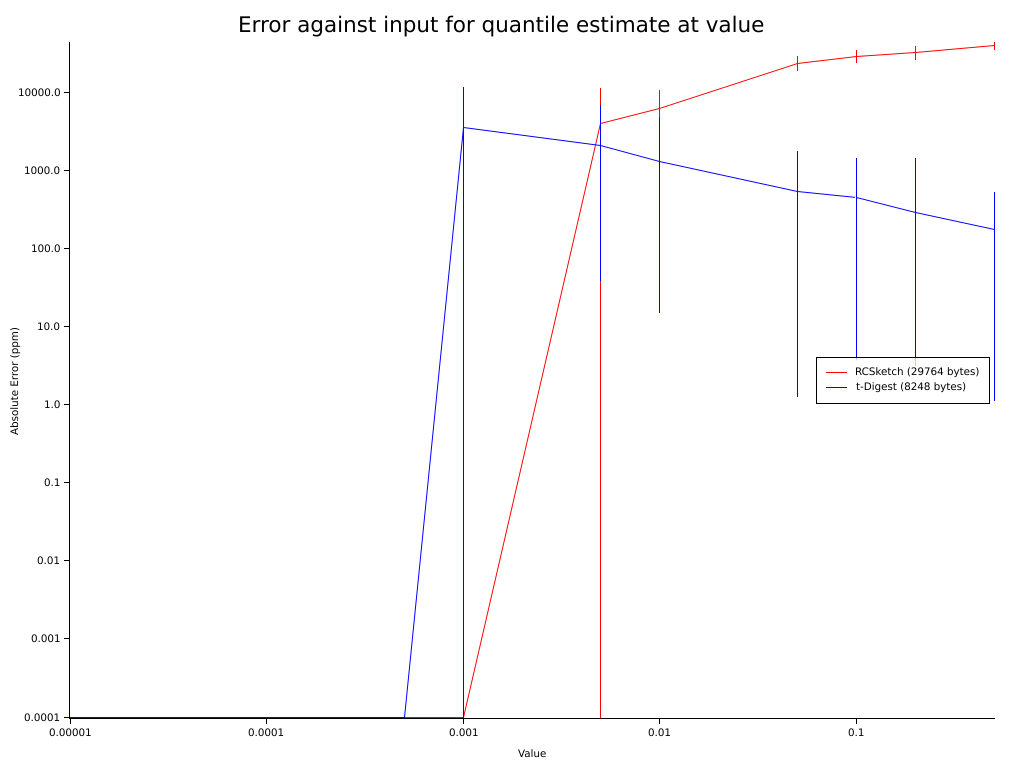
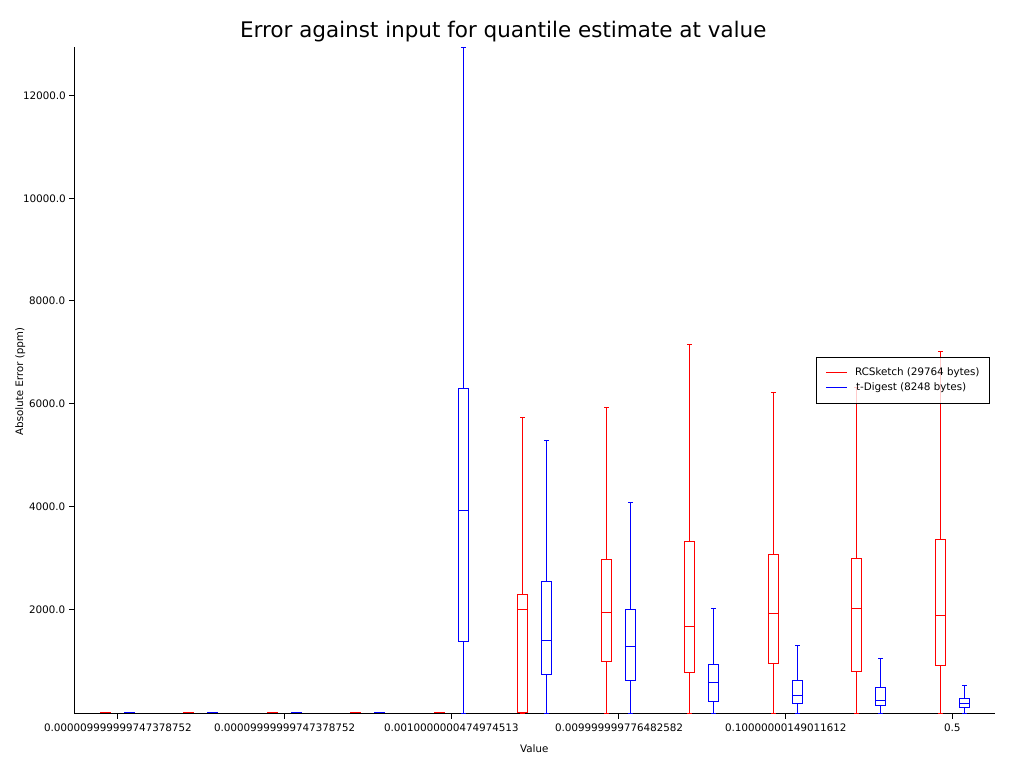
Improve RC accuracy by implementing the random switch between odd and even indexes

diff --git a/examples/accuracy.rs b/examples/accuracy.rs
@@ -7,6 +7,7 @@ use approximate_quantiles::util::{
     sample_digest_accuracy,
 };
 use num_traits::{Float, NumAssignOps};
+use plotters::data::fitting_range;
 use plotters::prelude::*;
 use std::error::Error;
 use std::path::Path;
@@ -20,6 +21,30 @@ where
     colour: &'a RGBColor,
 }
 
+impl<'a, T> Line<'a, T>
+where
+    T: Float,
+{
+    pub fn into_line_f64(self) -> Line<'a, f64> {
+        Line {
+            name: self.name,
+            datapoints: self
+                .datapoints
+                .into_iter()
+                .map(|dp| {
+                    (
+                        dp.0.to_f64().unwrap(),
+                        dp.1.into_iter()
+                            .map(|y_val| y_val.to_f64().unwrap())
+                            .collect(),
+                    )
+                })
+                .collect(),
+            colour: self.colour,
+        }
+    }
+}
+
 pub struct DataStat<T>
 where
     T: Float,
@@ -28,6 +53,91 @@ where
     y_mean: T,
     y_min: T,
     y_max: T,
+}
+
+pub fn plot_box_plot_graph<T>(
+    title: &str,
+    raw_series: Vec<Line<T>>,
+    output_path: &Path,
+    x_label: &str,
+    y_label: &str,
+) -> Result<(), Box<dyn Error>>
+where
+    T: Float,
+{
+    let root = BitMapBackend::new(output_path, (1024, 768)).into_drawing_area();
+
+    root.fill(&WHITE)?;
+
+    let series: Vec<Line<f64>> = raw_series
+        .into_iter()
+        .map(|series| series.into_line_f64())
+        .collect();
+
+    let y_values: Vec<f32> = series
+        .iter()
+        .map(|s| {
+            s.datapoints
+                .iter()
+                .map(|dp| dp.1.iter().map(|x| *x as f32).collect::<Vec<f32>>())
+                .flatten()
+                .collect::<Vec<f32>>()
+        })
+        .flatten()
+        .collect();
+    println!("{:?}", y_values);
+    let y_values_range = fitting_range(y_values.iter());
+    let x_values: Vec<f64> = series[0..1]
+        .iter()
+        .map(|s| s.datapoints.iter().map(|a| a.0).collect::<Vec<f64>>())
+        .flatten()
+        .collect();
+
+    // println!("{} {} {} {}", min_x, max_x, min_y, max_y);
+    // let mut colors = (0..).map(Palette99::pick);
+    println!("{:?}", &y_values_range);
+    let mut chart = ChartBuilder::on(&root)
+        .margin(15)
+        .margin_right(30)
+        .caption(&title, ("sans-serif", 25))
+        .set_label_area_size(LabelAreaPosition::Left, 60)
+        // .set_label_area_size(LabelAreaPosition::Right, 60)
+        .set_label_area_size(LabelAreaPosition::Bottom, 40)
+        .build_cartesian_2d(x_values[..].into_segmented(), y_values_range)?;
+
+    chart
+        .configure_mesh()
+        .disable_x_mesh()
+        .disable_y_mesh()
+        .x_desc(x_label)
+        .y_desc(y_label)
+        .draw()?;
+
+    let mut offsets = (-12..).step_by(24);
+    series.iter().for_each(|s| {
+        let current_offset = offsets.next().unwrap();
+        chart
+            .draw_series(s.datapoints.iter().map(|dp| {
+                Boxplot::new_vertical(SegmentValue::CenterOf(&dp.0), &Quartiles::new(&dp.1))
+                    .width(10)
+                    .whisker_width(0.5)
+                    .style(s.colour)
+                    .offset(current_offset)
+            }))
+            .expect("Failed to draw boxplot series")
+            .label(&s.name)
+            .legend(move |(x, y)| PathElement::new(vec![(x, y), (x + 20, y)], s.colour));
+    });
+
+    chart
+        .configure_series_labels()
+        .border_style(&BLACK)
+        .background_style(&WHITE.mix(0.8))
+        .draw()
+        .unwrap();
+    println!("Drew {}", title);
+
+    Ok(())
 }
 
 pub fn plot_line_graph<T>(
@@ -341,7 +451,7 @@ where
     };
 
     let rcsketch_param = T::from(20.0).unwrap();
-    let t_digest_param = T::from(3000.0).unwrap();
+    let t_digest_param = T::from(6000.0).unwrap();
 
     let input_size = 100_000;
     let rc_sketch_mem_size = {
@@ -356,7 +466,7 @@ where
     let mut series = Vec::new();
 
     let mut s = Vec::new();
-    for i in &[1e-6, 1e-5, 1e-4, 1e-3, 1e-2, 1e-1, 0.5] {
+    for i in &[1e-5, 1e-4, 1e-3, 1e-2, 1e-1] {
         let accuracy_measurements = sample_digest_accuracy(
             create_rcsketch(rcsketch_param),
             || gen_uniform_tan_vec(input_size),
@@ -375,7 +485,7 @@ where
     });
 
     let mut s = Vec::new();
-    for i in &[1e-6, 1e-5, 1e-4, 1e-3, 1e-2, 1e-1, 0.5] {
+    for i in &[1e-5, 1e-4, 1e-3, 1e-2, 1e-1] {
         let accuracy_measurements = sample_digest_accuracy(
             create_t_digest(t_digest_param),
             || gen_uniform_tan_vec(input_size),
@@ -393,7 +503,7 @@ where
         colour: &BLUE,
     });
 
-    plot_line_graph(
+    plot_box_plot_graph(
         "Error against input for value estimate at quantile",
         series,
         &Path::new("plots/acc_vs_input_est_value_from_quantile.png"),
@@ -487,7 +597,7 @@ where
         colour: &BLUE,
     });
 
-    plot_line_graph(
+    plot_box_plot_graph(
         "Error against input for quantile estimate at value",
         series,
         &Path::new("plots/acc_vs_input_est_quantile_from_value.png"),

diff --git a/src/relative_compactor.rs b/src/relative_compactor.rs
@@ -1,5 +1,6 @@
 use crate::traits::{Digest, OwnedSize};
 use num_traits::{cast::ToPrimitive, Float};
+use rand_distr::{Distribution, Uniform};
 use std::cmp::Ordering;
 
 #[derive(Debug, Clone)]
@@ -237,6 +238,9 @@ where
             };
             let output_items = self.compact(rc_index, compaction_index);
             self.insert_at_rc_batch(&output_items, rc_index + 1, fast_compaction);
+            // for item in output_items {
+            //     self.insert_at_rc(item, rc_index + 1, fast_compaction);
+            // }
         }
     }
 
@@ -248,11 +252,14 @@ where
         // Sort and extract the largest values
         self.buffers[rc_index].sort_by(|a, b| a.partial_cmp(&b).unwrap());
         let upper = self.buffers[rc_index].split_off(compact_index);
+        let mut rng = rand::thread_rng();
+        let uniform = Uniform::new(0, 2);
+        let chosen_pos = uniform.sample(&mut rng);
         // Remove half the largest values
         upper
             .into_iter()
             .enumerate()
-            .filter(|(pos, _value)| pos % 2 == 0)
+            .filter(|(pos, _value)| pos % 2 == chosen_pos)
             .map(|(_pos, value)| value)
             .collect()
     }
@@ -264,6 +271,22 @@ where
         let mut rank = 0;
         for i in 0..self.buffers.len() {
             rank += self.buffers[i].iter().filter(|x| **x < rank_item).count() * (1 << i);
+            // let less_than = self.buffers[i].iter().filter(|x| **x < rank_item).count() * (1 << i);
+            // let mut cloned_buffer = self.buffers[i].clone();
+            // cloned_buffer.sort_by(|a, b| a.partial_cmp(b).unwrap());
+            // let index = match cloned_buffer.binary_search_by(|x| x.partial_cmp(&rank_item).unwrap())
+            // {
+            //     Ok(index) => index,
+            //     Err(index) => index,
+            // };
+            // // Make sure there are elements to the left and right of the index
+            // if i >= 2 && index > 0 && index < cloned_buffer.len() - 1 {
+            //     rank += (((cloned_buffer[index + 1] - rank_item).to_f64().unwrap()
+            //         / (cloned_buffer[index + 1] - cloned_buffer[index])
+            //             .to_f64()
+            //             .unwrap())
+            //         * (2.0.powi(i as i32 - 1))) as usize;
+            // }
             // rank += (self.buffers[i].iter().filter(|x| **x == rank_item).count() * (1 << i)) / 2;
         }
         rank
